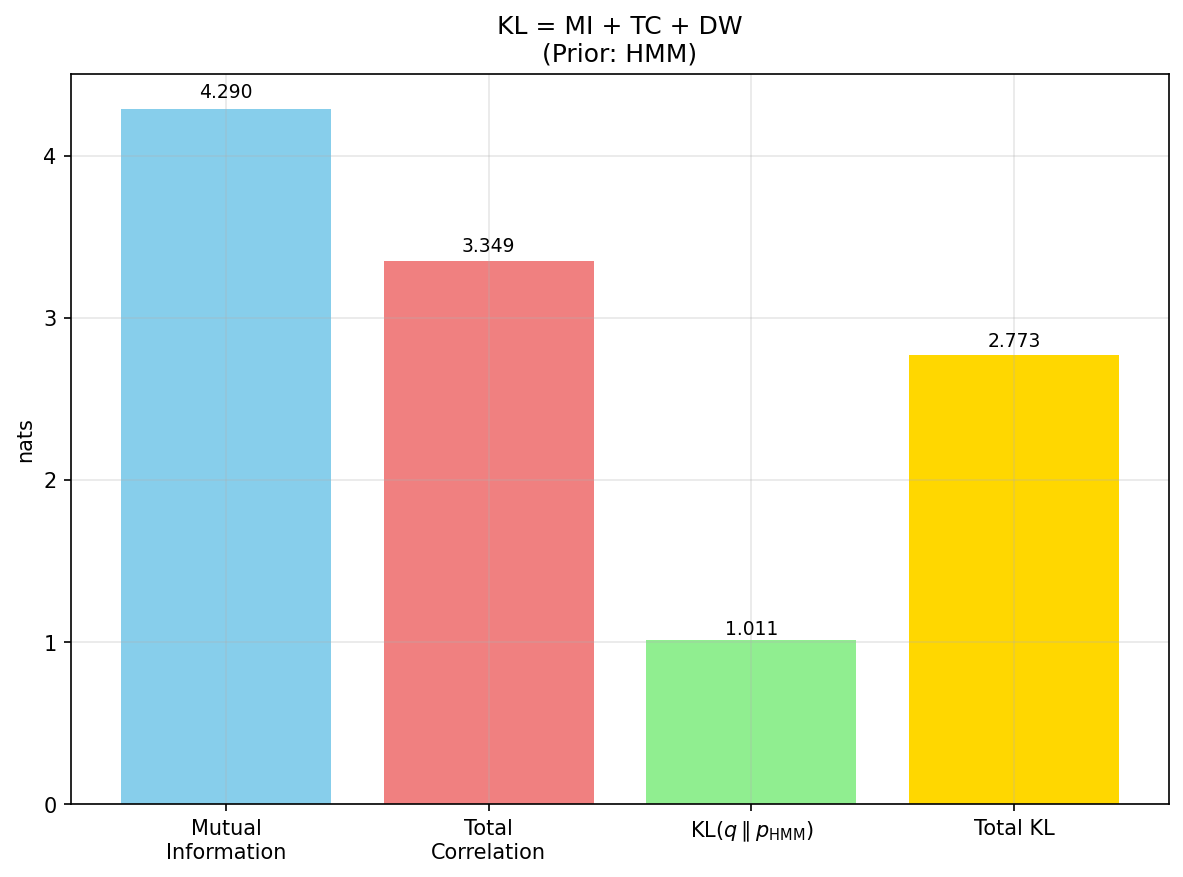
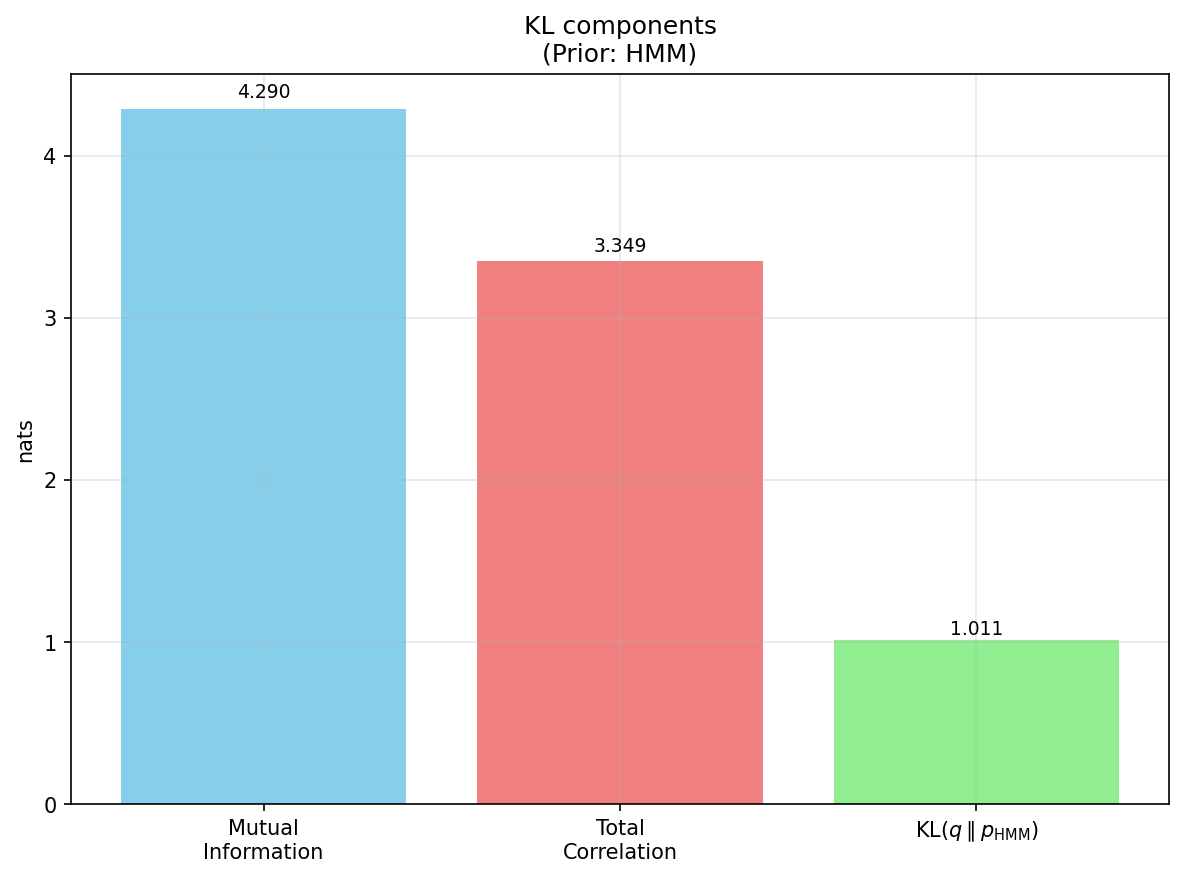
update

diff --git a/utils/analysis.py b/utils/analysis.py
@@ -1510,14 +1510,15 @@ def analyze_latent_space(
         elif plot_name == 'kl_decomposition':
             ax_individual.clear()
             if use_hmm_prior and argmax_r_hat is not None:
-                metrics = ['Mutual\nInformation', 'Total\nCorrelation', r'KL$(q \parallel p_{\mathrm{HMM}})$', 'Total KL']
-                vals = [mi, tc, kl_q_p_hmm, ekl]
+                metrics = ['Mutual\nInformation', 'Total\nCorrelation', r'KL$(q \parallel p_{\mathrm{HMM}})$']
+                vals = [mi, tc, kl_q_p_hmm]
+                ax_individual.set_title(f'KL components\n(Prior: {kl_prior_type})')
             else:
                 metrics = ['Mutual\nInformation', 'Total\nCorrelation', 'Dimension-wise\nKL', 'Total KL']
                 vals = [mi, tc, dw_kl, ekl]
+                ax_individual.set_title(f'KL = MI + TC + DW\n(Prior: {kl_prior_type})')
             bars = ax_individual.bar(metrics, vals, color=['skyblue','lightcoral','lightgreen','gold'])
             ax_individual.set_ylabel('nats')
-            ax_individual.set_title(f'KL = MI + TC + DW\n(Prior: {kl_prior_type})')
             for b, v in zip(bars, vals):
                 ax_individual.text(b.get_x() + b.get_width()/2., v * 1.01, f'{v:.3f}', 
                                  ha='center', va='bottom', fontsize=9)

diff --git a/vae_hmm_analysis/train_recon_comparison.md b/vae_hmm_analysis/train_recon_comparison.md
@@ -1,6 +1,6 @@
 # Enhanced VAE Reconstruction Comparison
 
-_Generated: 2025-09-27T19:22:10_
+_Generated: 2025-09-27T21:24:37_
 
 This analysis includes the following reconstructions:
 - **Ego View**: Character, color, and class predictions in ego-centric window
